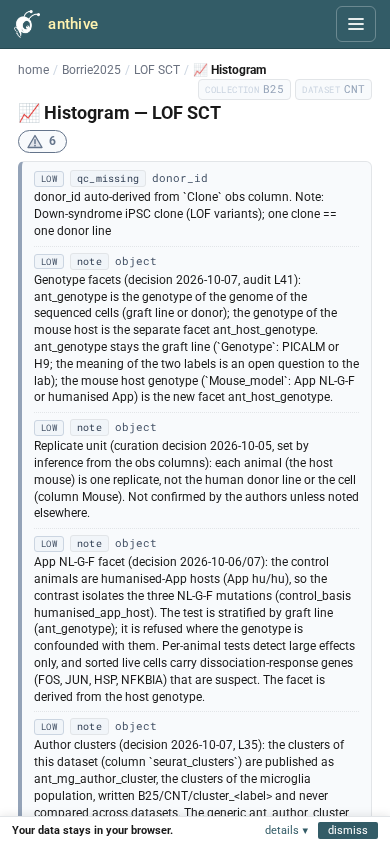
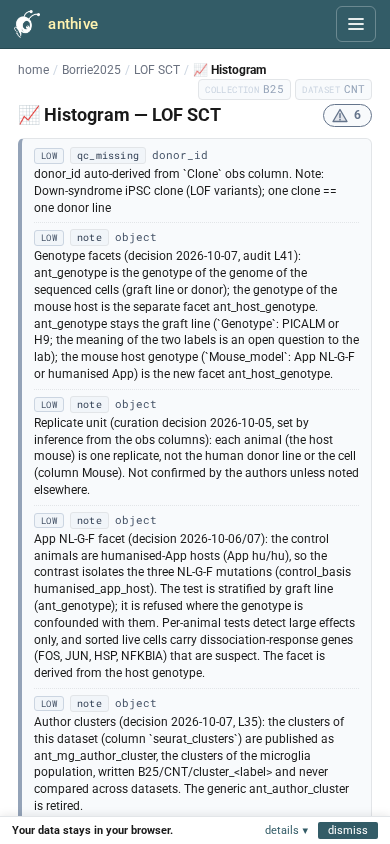
Plot pages: caveat button moves into the title row, right-aligned
Claude-Session: https://claude.ai/code/session_01ATo8q1HP1DaD2KMHdiMUow

Changed region(s): [[0.0308, 0.1232, 0.9231, 0.9858], [0.8308, 0.1232, 0.9538, 0.154]]

diff --git a/web/templates/plot.html b/web/templates/plot.html
@@ -213,8 +213,22 @@
     (dataset_name, "/browse/" ~ folder_browse_id ~ "/" ~ file_id),
     (geom_icon ~ " " ~ geom_label, None)
 ], ids=[("collection", group_id), ("dataset", file_id)]) }}
-<h1 class="page-title{% if is_secondary %} secondary-dataset{% endif %}">{{ geom_icon }} {{ geom_label }} — {{ dataset_name }}{{ secondary_badge(is_secondary) }}</h1>
 
+<div class="plot-title-row">
+<h1 class="page-title{% if is_secondary %} secondary-dataset{% endif %}">{{ geom_icon }} {{ geom_label }} — {{ dataset_name }}{{ secondary_badge(is_secondary) }}</h1>
+{% if caveats %}<div class="cv-btnwrap caveat-{{ caveats_summary.max_level or 'low' }}">
+<button type="button" class="cv-toggle" id="cv-toggle" aria-expanded="false" aria-controls="cv-panel"
+        title="Known caveats for this dataset: {{ caveats_summary.n }}{% if caveats_summary.n > 1 %}, highest {{ caveats_summary.max_level }}{% endif %}. Click to show or hide.">
+  <svg class="cv-tri" viewBox="0 0 24 22" width="16" height="15" aria-hidden="true" focusable="false">
+    <path d="M12 2 L22.5 20 H1.5 Z" fill="currentColor" fill-opacity=".15" stroke="currentColor" stroke-width="2" stroke-linejoin="round"/>
+    <path d="M12 8.5 V14" stroke="currentColor" stroke-width="2.2" stroke-linecap="round"/>
+    <circle cx="12" cy="17.3" r="1.3" fill="currentColor"/>
+  </svg>
+  <span class="cv-n">{{ caveats_summary.n }}</span>
+  <span class="cv-lbl">caveat{{ 's' if caveats_summary.n != 1 }}{% if caveats_summary.max_level == 'high' %}, high{% endif %}</span>
+</button>
+</div>{% endif %}
+</div>
 {# ── Known caveats banner (task #254) ──────────────────────────────────
    Same list dataset.html shows, placed here above the plot preview so
    caveats that directly bias the current plot (e.g. SP4/MPF astro-
@@ -222,7 +236,10 @@
    dataset.html — cloned here so plot.html stays self-contained. #}
 {% if caveats %}
 <style>
-  .cv-wrap { margin: 6px 0 8px; }
+  .cv-wrap { margin: 0 0 8px; }
+  .plot-title-row { display: flex; align-items: center; justify-content: space-between; gap: 8px; flex-wrap: wrap; }
+  .plot-title-row .page-title { margin-right: auto; }
+  .cv-btnwrap { margin-left: auto; }
   .cv-toggle {
     display: inline-flex; align-items: center; gap: 6px; cursor: pointer;
     font: inherit; font-size: 12px; font-weight: 600; line-height: 1.4;
@@ -232,9 +249,9 @@
   .cv-toggle:focus-visible { outline: 2px solid #2563eb; outline-offset: 2px; }
   .cv-toggle[aria-expanded="true"] { background: #f8fafc; }
   .cv-toggle .cv-lbl { font-weight: 500; }
-  .cv-wrap.caveat-low    .cv-toggle { color: #64748b; }
-  .cv-wrap.caveat-medium .cv-toggle { color: #b45309; }
-  .cv-wrap.caveat-high   .cv-toggle { color: #b91c1c; }
+  .cv-btnwrap.caveat-low    .cv-toggle { color: #64748b; }
+  .cv-btnwrap.caveat-medium .cv-toggle { color: #b45309; }
+  .cv-btnwrap.caveat-high   .cv-toggle { color: #b91c1c; }
   @media (max-width: 480px) { .cv-toggle .cv-lbl { display: none; } }
   .caveats-card[hidden] { display: none; }
   .caveats-card {
@@ -281,16 +298,6 @@
   .caveats-card.caveat-high   .cv-chip.lvl { background: #fee2e2; color: #991b1b; border-color: #fecaca; }
 </style>
 <div class="cv-wrap caveat-{{ caveats_summary.max_level or 'low' }}">
-<button type="button" class="cv-toggle" id="cv-toggle" aria-expanded="false" aria-controls="cv-panel"
-        title="Known caveats for this dataset: {{ caveats_summary.n }}{% if caveats_summary.n > 1 %}, highest {{ caveats_summary.max_level }}{% endif %}. Click to show or hide.">
-  <svg class="cv-tri" viewBox="0 0 24 22" width="16" height="15" aria-hidden="true" focusable="false">
-    <path d="M12 2 L22.5 20 H1.5 Z" fill="currentColor" fill-opacity=".15" stroke="currentColor" stroke-width="2" stroke-linejoin="round"/>
-    <path d="M12 8.5 V14" stroke="currentColor" stroke-width="2.2" stroke-linecap="round"/>
-    <circle cx="12" cy="17.3" r="1.3" fill="currentColor"/>
-  </svg>
-  <span class="cv-n">{{ caveats_summary.n }}</span>
-  <span class="cv-lbl">caveat{{ 's' if caveats_summary.n != 1 }}{% if caveats_summary.max_level == 'high' %}, high{% endif %}</span>
-</button>
 <div class="caveats-card caveat-{{ caveats_summary.max_level or 'low' }}" id="cv-panel" hidden
      role="note" aria-label="Known caveats for this dataset">
   <div class="cv-list">
